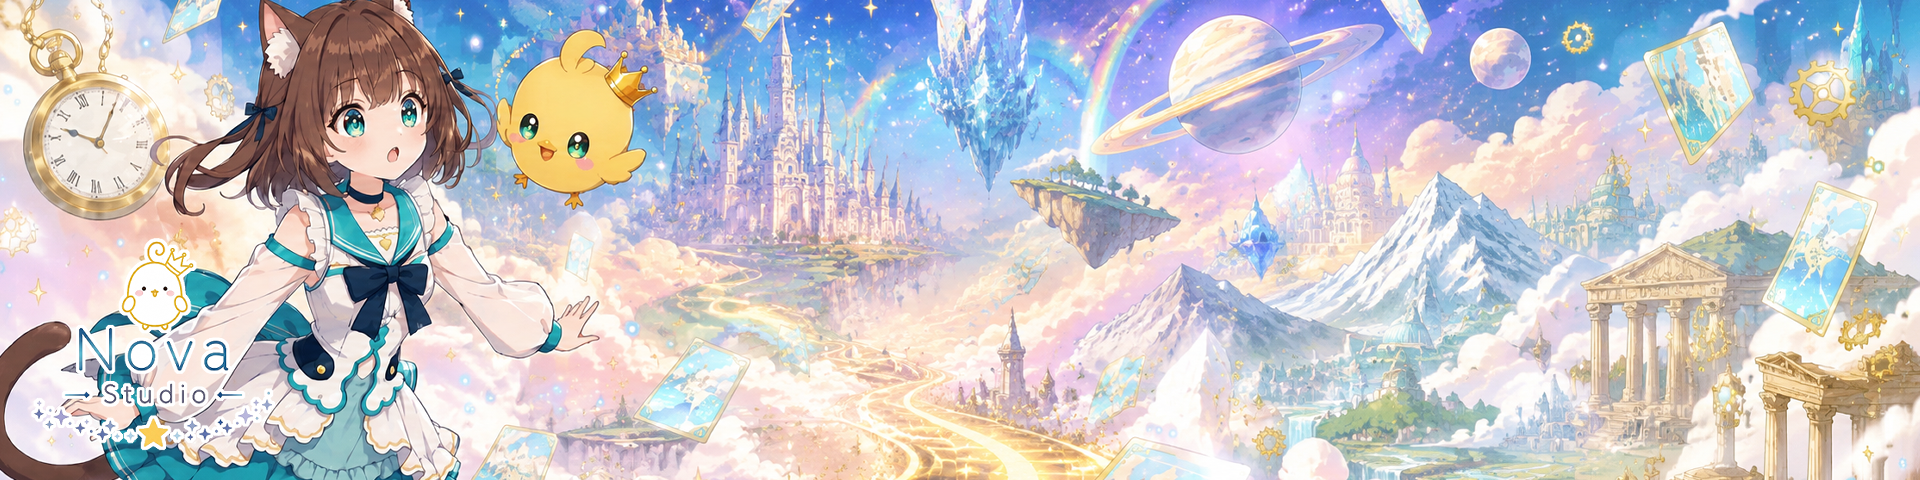
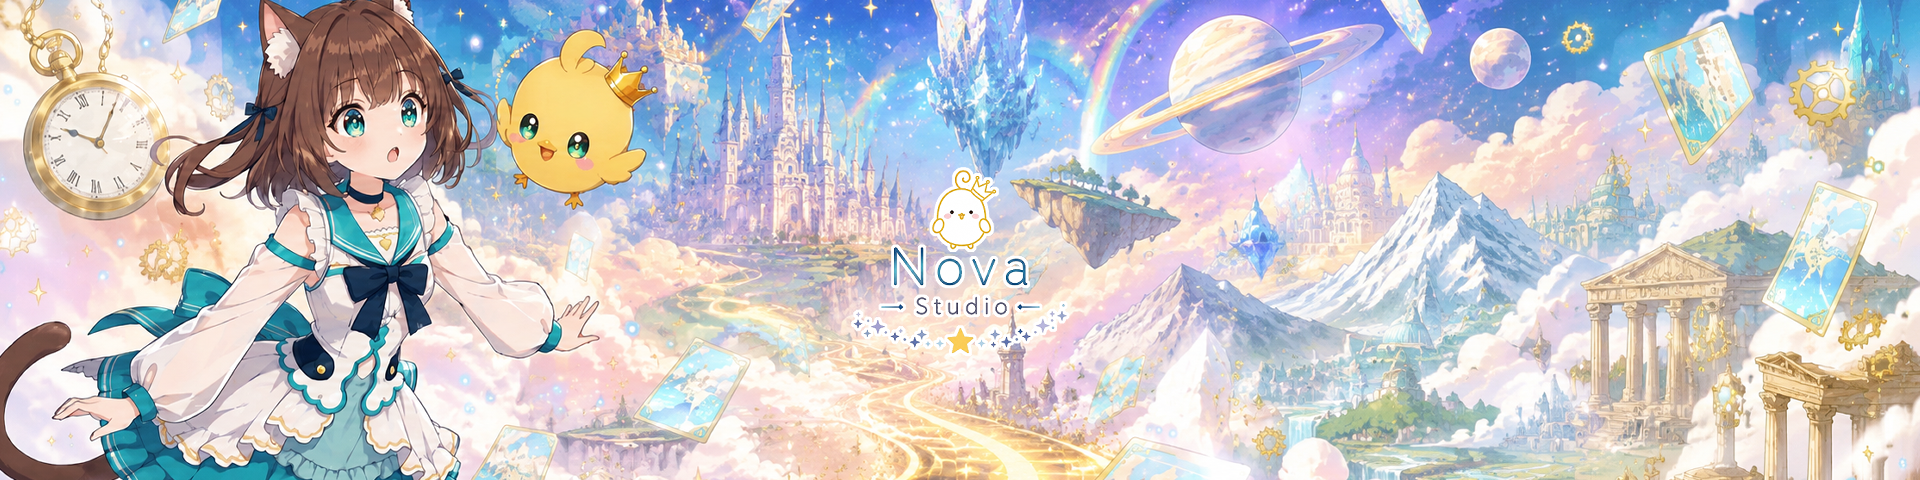
Refine Nova Studio home Hero layout

Changed region(s): [[0.4375, 0.3438, 0.5625, 0.75], [0.0, 0.5, 0.1562, 0.9375]]

diff --git a/app.js b/app.js
@@ -1190,7 +1190,7 @@ function homeFooterPanel(title,body,action=''){
 }
 homeView=function(){
   const p=currentProject(),e=currentEpisode(),info=homeProductionStatus(p,e);
-  return `<main class="atelier-home home-only" aria-label="Nova Studio"><header class="home-logo-bar">${homeImage('assets/images/home/nova-studio-home-logo-20260804.png','home-logo','Nova Studioロゴ')}<p class="home-logo-subtitle">AI Animation Creation Studio</p></header><section class="atelier-hero" aria-label="Nova Studio Hero"><div class="atelier-hero-media"><img src="./assets/images/home/nova-studio-home-hero-20260804.png" alt="Nova Studioの幻想世界を描いたHeroバナー" width="1920" height="480" loading="eager" decoding="async"></div></section><section class="atelier-continue" role="button" tabindex="0" onclick="openFeaturedEpisode()" onkeydown="if(event.key==='Enter'||event.key===' ')openFeaturedEpisode()"><div><p class="eyebrow">Continue</p><h2>制作を続ける</h2><dl><div><dt>作品名</dt><dd>${esc(info.project)}</dd></div><div><dt>話数</dt><dd>${esc(info.episode)}</dd></div><div><dt>制作状況</dt><dd>${esc(info.status)}</dd></div></dl></div>${homeImage('Tia_Chibi_HappyJump.png','tia-thinking','元気に跳ぶティア')}</section><section class="atelier-actions" aria-label="制作メニュー">${homeStudioAction('Nova_Thinking.png','Story Archive','物語の記憶と設定カードを開く','openStoryArchive()','priority')}${homeStudioAction('Nova_Stand.png','Production Dashboard','作品と話数の進行を確認する','openProductionDashboard()')}${homeStudioAction('Nova_Sparkle.png','Prompt Studio','映像生成プロンプトを整える',"openApp('promptStudio')")}${homeStudioAction('Nova_Joy.png','Music Studio','音楽と音の制作へ進む',"openApp('musicStudio')")}${homeStudioAction('Nova_Flying.png','Universe','作品世界のつながりを見る',"setView('universe')")}</section><section class="atelier-footer-grid" aria-label="ホーム概要">${homeFooterPanel('最近開いた作品',homeRecentSummary())}${homeFooterPanel('今日やること',homeTaskSummary(),'<button class="secondary" onclick="editTask()">追加</button>')}${homeFooterPanel('保存状況',homeSaveSummary())}${homeFooterPanel('バックアップ',homeBackupSummary())}</section></main>`;
+  return `<main class="atelier-home home-only" aria-label="Nova Studio"><section class="atelier-hero" aria-label="Nova Studio Hero"><div class="atelier-hero-media"><img src="./assets/images/home/nova-studio-home-hero-20260804.png" alt="Nova Studioの幻想世界を描いたHeroバナー" width="1920" height="480" loading="eager" decoding="async"></div></section><div class="home-gemini-actions" aria-label="AI連携"></div><section class="atelier-continue" role="button" tabindex="0" onclick="openFeaturedEpisode()" onkeydown="if(event.key==='Enter'||event.key===' ')openFeaturedEpisode()"><div><p class="eyebrow">Continue</p><h2>制作を続ける</h2><dl><div><dt>作品名</dt><dd>${esc(info.project)}</dd></div><div><dt>話数</dt><dd>${esc(info.episode)}</dd></div><div><dt>制作状況</dt><dd>${esc(info.status)}</dd></div></dl></div>${homeImage('Tia_Chibi_HappyJump.png','tia-thinking','元気に跳ぶティア')}</section><section class="atelier-actions" aria-label="制作メニュー">${homeStudioAction('Nova_Thinking.png','Story Archive','物語の記憶と設定カードを開く','openStoryArchive()','priority')}${homeStudioAction('Nova_Stand.png','Production Dashboard','作品と話数の進行を確認する','openProductionDashboard()')}${homeStudioAction('Nova_Sparkle.png','Prompt Studio','映像生成プロンプトを整える',"openApp('promptStudio')")}${homeStudioAction('Nova_Joy.png','Music Studio','音楽と音の制作へ進む',"openApp('musicStudio')")}${homeStudioAction('Nova_Flying.png','Universe','作品世界のつながりを見る',"setView('universe')")}</section><section class="atelier-footer-grid" aria-label="ホーム概要">${homeFooterPanel('最近開いた作品',homeRecentSummary())}${homeFooterPanel('今日やること',homeTaskSummary(),'<button class="secondary" onclick="editTask()">追加</button>')}${homeFooterPanel('保存状況',homeSaveSummary())}${homeFooterPanel('バックアップ',homeBackupSummary())}</section></main>`;
 };
 render=function(){
   const v=(location.hash||'#home').slice(1)||HOME_ROUTE;

diff --git a/style.css b/style.css
@@ -607,11 +607,11 @@ body:has(.atelier-home.home-only){
     linear-gradient(180deg,rgba(248,254,255,.36),rgba(226,243,248,.46)),
     var(--home-background-image,url('./assets/images/home/glass_fantasy_ui_background.jpg')) center/cover fixed no-repeat;
 }
-body[data-home-background="glass"]{--home-background-image:url('./assets/images/home/glass_fantasy_background.jpg')}
-body[data-home-background="glassUi"]{--home-background-image:url('./assets/images/home/glass_fantasy_ui_background.jpg')}
-body[data-home-background="nightSky"]{--home-background-image:url('./assets/images/home/night_sky_background.jpg')}
-body[data-home-background="shootingStars"]{--home-background-image:url('./assets/images/home/shooting_stars_background.jpg')}
-body[data-home-background="fantasyAtelier"]{--home-background-image:url('./assets/images/home/fantasy_atelier_background.png')}
+body[data-home-background="glass"]{--home-background-image:url('./glass_fantasy_background.jpg')}
+body[data-home-background="glassUi"]{--home-background-image:url('./glass_fantasy_ui_background.jpg')}
+body[data-home-background="nightSky"]{--home-background-image:url('./night_sky_background.jpg')}
+body[data-home-background="shootingStars"]{--home-background-image:url('./shooting_stars_background.jpg')}
+body[data-home-background="fantasyAtelier"]{--home-background-image:url('./fantasy_atelier_background.png')}
 body:has(.atelier-home.home-only)::before{
   content:"";
   position:fixed;
@@ -686,7 +686,7 @@ body:has(.atelier-home.home-only)::before{
 }
 
 /* Final layout separation: atelier home and management shell never stack. */
-body.is-home-route{background:var(--home-bg-image),linear-gradient(180deg,#effbff,#fff7ed);background-size:cover;background-position:center;background-attachment:fixed}
+body.is-home-route{background:linear-gradient(180deg,rgba(248,254,255,.36),rgba(226,243,248,.46)),var(--home-background-image),linear-gradient(180deg,#effbff,#fff7ed);background-size:auto,cover,auto;background-position:center;background-attachment:fixed}
 body.is-management-route{background:linear-gradient(180deg,#f7fcff,#edf6fb)}
 body.is-management-route .home-only,body.is-home-route .management-header,body.is-home-route .management-layout,body.is-home-route .management-bottom{display:none!important}
 body.is-management-route #app{min-height:100vh;width:100%;overflow-x:clip}.management-header{position:sticky;top:0;z-index:12;background:rgba(255,255,255,.96);border-bottom:1px solid var(--line)}.management-header .return-home{background:#12395d;color:#fff;border:1px solid #d8edf0}.hamburger{display:none;background:#e7f7f9;color:var(--navy)}.management-layout{display:grid;grid-template-columns:220px minmax(0,1fr)290px;gap:1rem;width:min(1500px,100%);margin:0 auto;padding:1rem}.management-nav{position:sticky;top:92px;align-self:start;max-height:calc(100vh - 110px);overflow:auto}.management-nav button{display:block;width:100%;margin:.18rem 0;text-align:left;background:#e7f7f9;color:var(--navy)}.management-nav-section{padding:.4rem;margin:.5rem 0;background:#fff;border-radius:16px}.management-nav-section>summary{min-height:44px}.management-main,.management-side{min-width:0}.management-side{align-self:start}.mobile-nav-backdrop{display:none}
@@ -715,6 +715,17 @@ body.is-home-route .flow-guide{
 body.is-management-route #app{
   width:100%;
   overflow-x:hidden;
+}
+.home-gemini-actions{
+  display:flex;
+  justify-content:flex-end;
+  width:100%;
+  margin:-.35rem 0 .65rem;
+}
+.home-gemini-actions [data-gemini-bridge]{
+  flex:0 1 auto;
+  max-width:100%;
+  margin:0;
 }
 .home-top-tools{
   position:absolute;

diff --git a/tests/nova-menu.test.js b/tests/nova-menu.test.js
@@ -8,6 +8,8 @@ const html=fs.readFileSync(path.join(root,'index.html'),'utf8');
 const source=fs.readFileSync(path.join(root,'nova-menu.js'),'utf8');
 const css=fs.readFileSync(path.join(root,'nova-menu.css'),'utf8');
 const app=fs.readFileSync(path.join(root,'app.js'),'utf8');
+const gemini=fs.readFileSync(path.join(root,'gemini-bridge.js'),'utf8');
+const archiveHome=fs.readFileSync(path.join(root,'story-archive-home-unified.js'),'utf8');
 
 test('loads the independent menu without removing existing navigation',()=>{
   assert.match(html,/nova-menu\.css/);
@@ -45,10 +47,17 @@ test('the upper-left control is hamburger-only with a responsive restrained pane
 });
 
 test('home fixes the atelier background without showing a background picker',()=>{
+  const style=fs.readFileSync(path.join(root,'style.css'),'utf8');
   assert.match(app,/const DEFAULT_HOME_BACKGROUND_ID='fantasyAtelier'/);
   assert.match(app,/document\.body\.dataset\.homeBackground=DEFAULT_HOME_BACKGROUND_ID/);
   assert.doesNotMatch(app,/function homeBackgroundPicker/);
   assert.doesNotMatch(app,/home-top-tools/);
+  assert.match(style,/body\[data-home-background="fantasyAtelier"\]\{--home-background-image:url\('\.\/fantasy_atelier_background\.png'\)/);
+  assert.match(style,/body\.is-home-route\{background:[^}]*var\(--home-background-image\)[^}]*background-size:auto,cover,auto[^}]*background-position:center[^}]*background-attachment:fixed/);
+  assert.doesNotMatch(style,/--home-bg-image/);
+  assert.match(archiveHome,/const FIXED_HOME_BACKGROUND='fantasyAtelier'/);
+  assert.match(archiveHome,/route==='home'\?BACKGROUNDS\.find\(item=>item\.id===FIXED_HOME_BACKGROUND\):selectedBackground\(\)/);
+  assert.match(archiveHome,/classList\.toggle\('is-story-archive-route',route==='storyArchive'\);\s*applyHomeBackground\(\)/);
 });
 
 test('home Hero displays the replaceable 4:1 banner without cropping',()=>{
@@ -62,11 +71,13 @@ test('home Hero displays the replaceable 4:1 banner without cropping',()=>{
   assert.match(style,/\.atelier-hero-media img\{[^}]*object-fit:contain/);
 });
 
-test('home uses the compact responsive Nova Studio logo above the Hero',()=>{
+test('home removes the upper logo and moves Gemini below the Hero',()=>{
   const style=fs.readFileSync(path.join(root,'style.css'),'utf8');
-  assert.match(app,/assets\/images\/home\/nova-studio-home-logo-20260804\.png/);
-  assert.match(style,/\.home-logo\{width:min\(72vw,220px\)/);
-  assert.match(style,/@media\(max-width:1024px\)\{[\s\S]*?\.home-logo\{width:min\(72vw,190px\)/);
-  assert.match(style,/@media\(max-width:760px\)\{[\s\S]*?\.home-logo\{width:min\(86vw,158px\)/);
-  assert.match(style,/\.home-logo img,[\s\S]*?height:auto/);
+  const finalHome=app.slice(app.lastIndexOf('homeView=function'));
+  assert.doesNotMatch(finalHome,/home-logo-bar|home-logo-subtitle|nova-studio-home-logo-20260804/);
+  assert.match(finalHome,/atelier-hero[\s\S]*home-gemini-actions[\s\S]*atelier-continue/);
+  assert.match(gemini,/querySelector\('\.home-gemini-actions'\)/);
+  assert.match(gemini,/button\.dataset\.geminiBridge = 'home'/);
+  assert.match(gemini,/button\.addEventListener\('click', openPanel\)/);
+  assert.match(style,/\.home-gemini-actions\{[^}]*justify-content:flex-end[^}]*width:100%/);
 });

diff --git a/story-archive-home-unified.js b/story-archive-home-unified.js
@@ -9,12 +9,14 @@
     {id:'fantasyAtelier',label:'幻想アトリエ',file:'fantasy_atelier_background.png'}
   ];
   const DEFAULT_BACKGROUND='glassUi';
+  const FIXED_HOME_BACKGROUND='fantasyAtelier';
   const hasBackground=id=>BACKGROUNDS.some(bg=>bg.id===id);
   const selectedBackground=()=>BACKGROUNDS.find(bg=>bg.id===(localStorage.getItem(BACKGROUND_KEY)||DEFAULT_BACKGROUND))||BACKGROUNDS.find(bg=>bg.id===DEFAULT_BACKGROUND)||BACKGROUNDS[0];
   const escapeHtml=value=>String(value??'').replace(/[&<>"']/g,char=>({'&':'&amp;','<':'&lt;','>':'&gt;','"':'&quot;',"'":'&#39;'}[char]));
 
   window.applyHomeBackground=function(){
-    const bg=selectedBackground();
+    const route=(location.hash||'#home').slice(1)||'home';
+    const bg=route==='home'?BACKGROUNDS.find(item=>item.id===FIXED_HOME_BACKGROUND):selectedBackground();
     document.body.dataset.homeBackground=bg.id;
     document.body.style.setProperty('--home-background-image',`url('./${bg.file}')`);
   };
@@ -35,6 +37,7 @@
   window.render=function(){
     const route=(location.hash||'#home').slice(1)||'home';
     document.body.classList.toggle('is-story-archive-route',route==='storyArchive');
+    applyHomeBackground();
     return previousRender?.();
   };
 

diff --git a/gemini-bridge.js b/gemini-bridge.js
@@ -248,6 +248,15 @@
   }
 
   function injectButtons() {
+    const homeActions = document.querySelector('.home-gemini-actions');
+    if (homeActions && !homeActions.querySelector('[data-gemini-bridge]')) {
+      const button = document.createElement('button');
+      button.dataset.geminiBridge = 'home';
+      button.textContent = '✨ Gemini';
+      button.addEventListener('click', openPanel);
+      homeActions.appendChild(button);
+    }
+
     const header = document.querySelector('header');
     if (header && !header.querySelector('[data-gemini-bridge]')) {
       const button = document.createElement('button');
